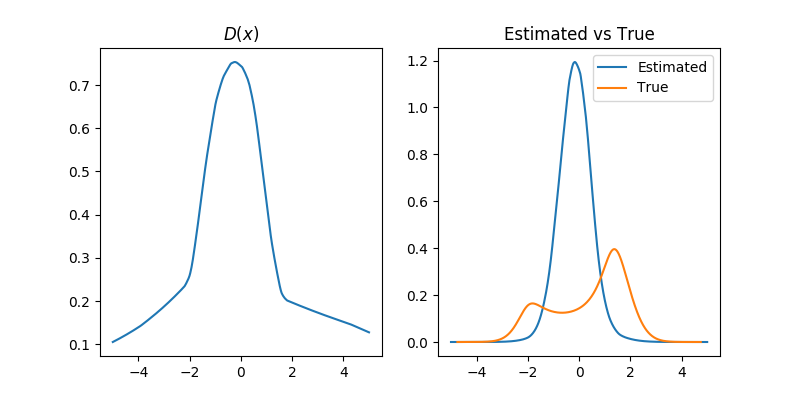
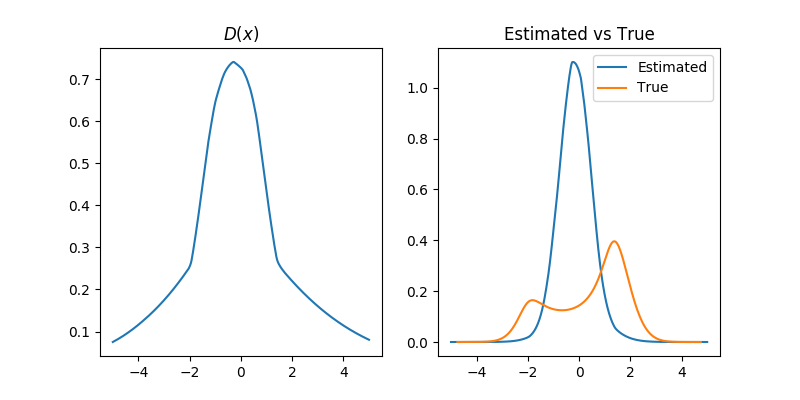
score_fid updated

diff --git a/gan_eval/gan(Generator_Discriminator).py b/gan_eval/gan(Generator_Discriminator).py
@@ -58,6 +58,17 @@ def get_data_loader(dataset_location, batch_size):
     return trainloader, validloader, testloader
 
 
+
+# class Generator(nn.Module):
+#     def __init__(self, channels, latent_dim, cuda):
+#         super(Generator, self).__init__()
+#         self.cuda = cuda
+
+#         self.generator = nn.Sequential(
+#             nn.Linear(latent_dim, 128 * 4 * 4),
+#             nn.ReLU(),
+#             )
+
 class Generator(nn.Module):
     def __init__(self, channels, latent_dim, cuda):
         super(Generator, self).__init__()
@@ -65,6 +76,7 @@ class Generator(nn.Module):
 
         self.mlp = nn.Sequential(
             nn.Linear(latent_dim, 128 * 4 * 4),
+            nn.ReLU()
             )
 
         self.convTranspose = nn.Sequential(
@@ -85,7 +97,7 @@ class Generator(nn.Module):
 
             nn.ConvTranspose2d(16, 16, 3, 1, 1),
             nn.BatchNorm2d(16),
-            nn.Dropout2d(0.25),
+            # nn.Dropout2d(0.25),
             nn.ReLU(),
 
             nn.ConvTranspose2d(16, 8, 4, 2, 1),
@@ -120,7 +132,7 @@ class Discriminator(nn.Module):
 
         self.conv = nn.Sequential( 
             nn.Conv2d(channels, 8, 3, 1, 1),
-            # nn.BatchNorm2d(8),
+            nn.BatchNorm2d(8),
             nn.Dropout2d(0.25),
             nn.LeakyReLU(0.2),
 
@@ -176,7 +188,7 @@ def sample_generator(Generator, num_samples, latent_dim, update_d, device):
 
     gen_samples = Generator(noise)
     gen_samples = gen_samples.view(-1, 3, 32, 32)
-    save_image(gen_samples.data.view(num_samples, 3, 32, 32).cpu(), 'results/gs' + str(update_d) + '.png', nrow = 8)
+    save_image(gen_samples.data.view(num_samples, 3, 32, 32).cpu(), 'results/gs' + str(update_d) + '.png', nrow = 10)
 
 def loss_WD(Discriminator, D_x, D_y, batch_size, device):
     lam = 10
@@ -207,7 +219,7 @@ def train(Discriminator, Generator, trainloader, latent_dim, batch_size, epochs,
     # ## optimizers
     # optimizer_G = torch.optim.Adam(Generator.parameters(), lr=opt.lr*4)
     # optimizer_D = torch.optim.Adam(Discriminator.parameters(), lr=opt.lr)
-    optimizer_G = torch.optim.Adam(Generator.parameters(), lr=opt.lr*4, betas=(0.5, 0.999))
+    optimizer_G = torch.optim.Adam(Generator.parameters(), lr=opt.lr*2, betas=(0.5, 0.999))
     optimizer_D = torch.optim.Adam(Discriminator.parameters(), lr=opt.lr, betas=(0.5, 0.999))
     
 
@@ -282,149 +294,3 @@ if __name__ == "__main__":
 
     trainloader, validloader, testloader = get_data_loader('./data', 512)
     train(D, G, trainloader, opt.latent_dim, opt.batch_size, opt.epochs, device)
-
-
-
-# ## Generator
-# class Generator(nn.Module):
-#     """docstring for Generator"""
-#     def __init__(self):
-#         super(Generator, self).__init__()
-#         self.model = nn.Sequntial(
-#             nn.Conv2d(3, 16, 3, padding=1),
-#             nn.ReLU(),
-#             nn.Dropout2d(p=0.25),
-#             nn.Conv2d(16, 32, 3, padding=1),
-#             nn.ReLU(),
-#             nn.Dropout2d(p=0.25),
-#             nn.MaxPool2d(2),
-
-#             nn.Conv2d(32, 32, 3, padding=1),
-#             nn.ReLU(),
-#             nn.Dropout2d(p=0.25),
-#             nn.Conv2d(32, 64, 3, padding=1),
-#             nn.ReLU(),
-#             nn.Dropout2d(p=0.25),
-#             nn.MaxPool2d(2),
-
-#             nn.Conv2d(64, 64, 3, padding=1),
-#             nn.ReLU(),
-#             nn.Dropout2d(p=0.25),
-#             nn.Conv2d(64, 128, 3, padding=1),
-#             nn.ReLU(),
-#             nn.Dropout2d(p=0.25),
-#             nn.MaxPool2d(2),
-
-#             nn.Conv2d(128, 512, 2),
-#             )
-#         self.mlp = nn.Sequntial(
-#             nn.ReLU(),
-#             nn.Dropout2d(p=0.5),
-#             nn.Linear(512,10),
-#             )
-#     def forward(self, x):
-#         return self.mlp(self.model(x)[:,:,0, 0])
-
-# ## Discriminator
-# class Discriminator(nn.Module):
-#     """docstring for Discriminator"""
-#     def __init__(self):
-#         super(Discriminator, self).__init__()
-#         self.model = nn.Sequntial(
-#             nn.Linear(2, opt.latent_dim),
-#             nn.ReLU(),
-#             nn.Linear(opt.latent_dim, opt.latent_dim),
-#             nn.ReLU(),
-#             nn.Linear(opt.latent_dim, 1),
-#             nn.Sigmoid(),
-#             )
-#     def forward(self, x):
-#         return self.model(x)
-
-
-# def WD(D_x, D_y, X, Y):
-#     lam = opt.lamda
-#     D_loss_real = torch.mean(D_x)
-#     D_loss_fake = torch.mean(D_y)
-#     D_loss = D_loss_real - D_loss_fake - (lam * gradient_penalty)
-#     return -D_loss
-  
-# def gradient_penalty(X,Y):
-#     batch_size = X.size()[0]
-#     a = np.random.uniform(0, 1)
-#     z = a * X + (1-a) * Y
-#     Z = Variable(z, require_grad=True)
-
-#     prob_z = Discriminator(Z)
-
-#     # Calculate gradients of probabilities with respect to examples
-#     gradients = torch_grad(outputs=prob_z, inputs=z, grad_outputs=torch.ones(prob_z.size()).cuda() if cuda else torch.ones(
-#                            prob_z.size()),
-#                            create_graph=True, retain_graph=True)[0]
-#     gradients = gradients.view(batch_size, -1)
-#     gardient_pen = ((gradients.norm(2, dim=1) -1)**2).mean()
-#     return gardient_pen
-
-
-# ## Initializing the generator and discriminator
-# generator = Generator()
-# discriminator = Discriminator()
-
-# if cuda():
-#     generator.cuda()
-#     discriminator.cuda()
-
-
-# ## optimizers
-# optimizer_G = torch.optim.opt.optimizer(generator.parameters(), lr=opt.lr)
-# optimizer_D = torch.optim.opt.optimizer(discriminator.parameters(), lr=opt.lr)
-
-
-# ## training
-# for epoch in range(opt.epoch):
-#     for i,(imgs, _) in enumerate(trainloader):
-
-#         real = Variable(Tensor(imgs.size(0), 1).fill_(1.0), require_grad=False)
-#         fake = Variable(Tensor(imgs.size(0), 1).fill_(1.0), require_grad=False)
-
-#         real_imgs = Variable(imgs.type(Tensor))
-
-#         # -----------------
-#         ## Train generator
-#         # -----------------
-
-#         optimizer_G.zero_grad()
-
-#         noise = Variable(Tensor(samplers.distribution1(0, opt.batch_size)))
-
-#         ## generate a batch of images
-#         gen_imgs = generator(noise)
-
-#         ## loss of generator (what is the adversarial loss)
-#         g_loss = ????
-
-#         g_loss.backward()
-#         optimizer_G.step()
-
-
-#         # ---------------------
-#         ## Train discriminator
-#         # ---------------------
-
-#         optimizer_D.zero_grad()
-
-#         ## loss of discriminator
-#         d_loss = WD(discriminator(real_imgs), discriminator(gen_imgs))
-
-#         d_loss.backward()
-#         optimizer_D.step()
-
-
-#         print(
-#             "[Epoch %d/%d] [Batch %d/%d] [D loss: %f] [G loss: %f]"
-#             % (epoch, opt.epochs, i, len(trainloader), d_loss.item(), g_loss.item())
-#             )
-        
-#         batches_done = epoch * len(trainloader) + i
-#         if batches_done % opt.sample_interval == 0:
-#             save_image(gen_imgs.data[:25], "images/%d.png" % batches_done, nrow=5, normalize=True)

diff --git a/gan_eval/score_fid.py b/gan_eval/score_fid.py
@@ -1,6 +1,5 @@
 import argparse
 import os
-from scipy import linalg
 import torchvision
 import torchvision.transforms as transforms
 import torch
@@ -70,43 +69,16 @@ def extract_features(classifier, data_loader):
             for i in range(h.shape[0]):
                 yield h[i]
 
-def mean_covariance(extracted_feature):
-    mean = extracted_feature.mean(dim=1)
-    covariance = extracted_feature.var(dim=1)
-    return mean, covariance
 
 def calculate_fid_score(sample_feature_iterator,
                         testset_feature_iterator):
     """
     To be implemented by you!
     """
-    # assert mu1.shape == mu2.shape
-    # assert sigma1.shape == sigma2.shape
-
-    # diff = mu1 - mu2
-
-    # covmean, _ = linalg.sqrtm(sigma1.dot(sigma2), disp = False)
-    # if not np.isfinite(covmean).all():
-    #     msg = ('fid calculation produces singular product')
-    #     print (msg)
-    #     offset = np.eye(sigma1.shape[0]) * 1e-6
-    #     covmean = linalg.sqrtm((sigma1 + offset).dot(sigma2 + offset))
-
-    # if np.iscomplexobj(covmean):
-    #     if not np.allclose(np.diagonal(covmean).imag, 0, atol=1e-3):
-    #         m = np.max(np.abs(covmean.imag))
-    #         raise ValueError('Imaginary component {}'.format(m))
-    #     covmean = covmean.real
-
-    # trace_covmean = np.trace(covmean)
-
-    # d2 = (diff.dot(diff) + np.trace(sigma1) + np.trace(sigma2) - (2 * trace_covmean))
-
     raise NotImplementedError(
         "TO BE IMPLEMENTED."
         "Part of Assignment 3 Quantitative Evaluations"
     )
-    return d2
 
 
 if __name__ == "__main__":

diff --git a/gan/gan.py b/gan/gan.py
@@ -1,4 +1,5 @@
 import numpy as np
+import matplotlib.pyplot as plt
 import torch
 from torch.autograd import Variable
 import torch.nn as nn
@@ -122,7 +123,7 @@ def gan_eval():
   n_hidden = 3
   input_dim = 1
 
-  f0 = samplers.distributionGaussian(batch_size)
+  f0 = samplers.distribution3(batch_size)
   f1 = samplers.distribution4(batch_size)
 
   D = Discriminator(input_dim, hidden_size, n_hidden)
@@ -142,9 +143,9 @@ def gan_eval():
   
   xx = np.linspace(-5,5,1000)
   N = lambda x: np.exp(-x**2/2.)/((2*np.pi)**0.5)
-  f0_x_tensor = Variable( torch.from_numpy(np.float32(xx.reshape(batch_size, input_dim))) )
+  f0_x_tensor = Variable(torch.from_numpy(np.float32(xx.reshape(batch_size, input_dim))))
   D_x = D(f0_x_tensor)
-  f1_est = N(f0_x_tensor) * D_x / (1 - D_x)
+  f1_est = (N(f0_x_tensor) * D_x) / (1 - D_x)
 
 
   # Plot the discriminator output.
